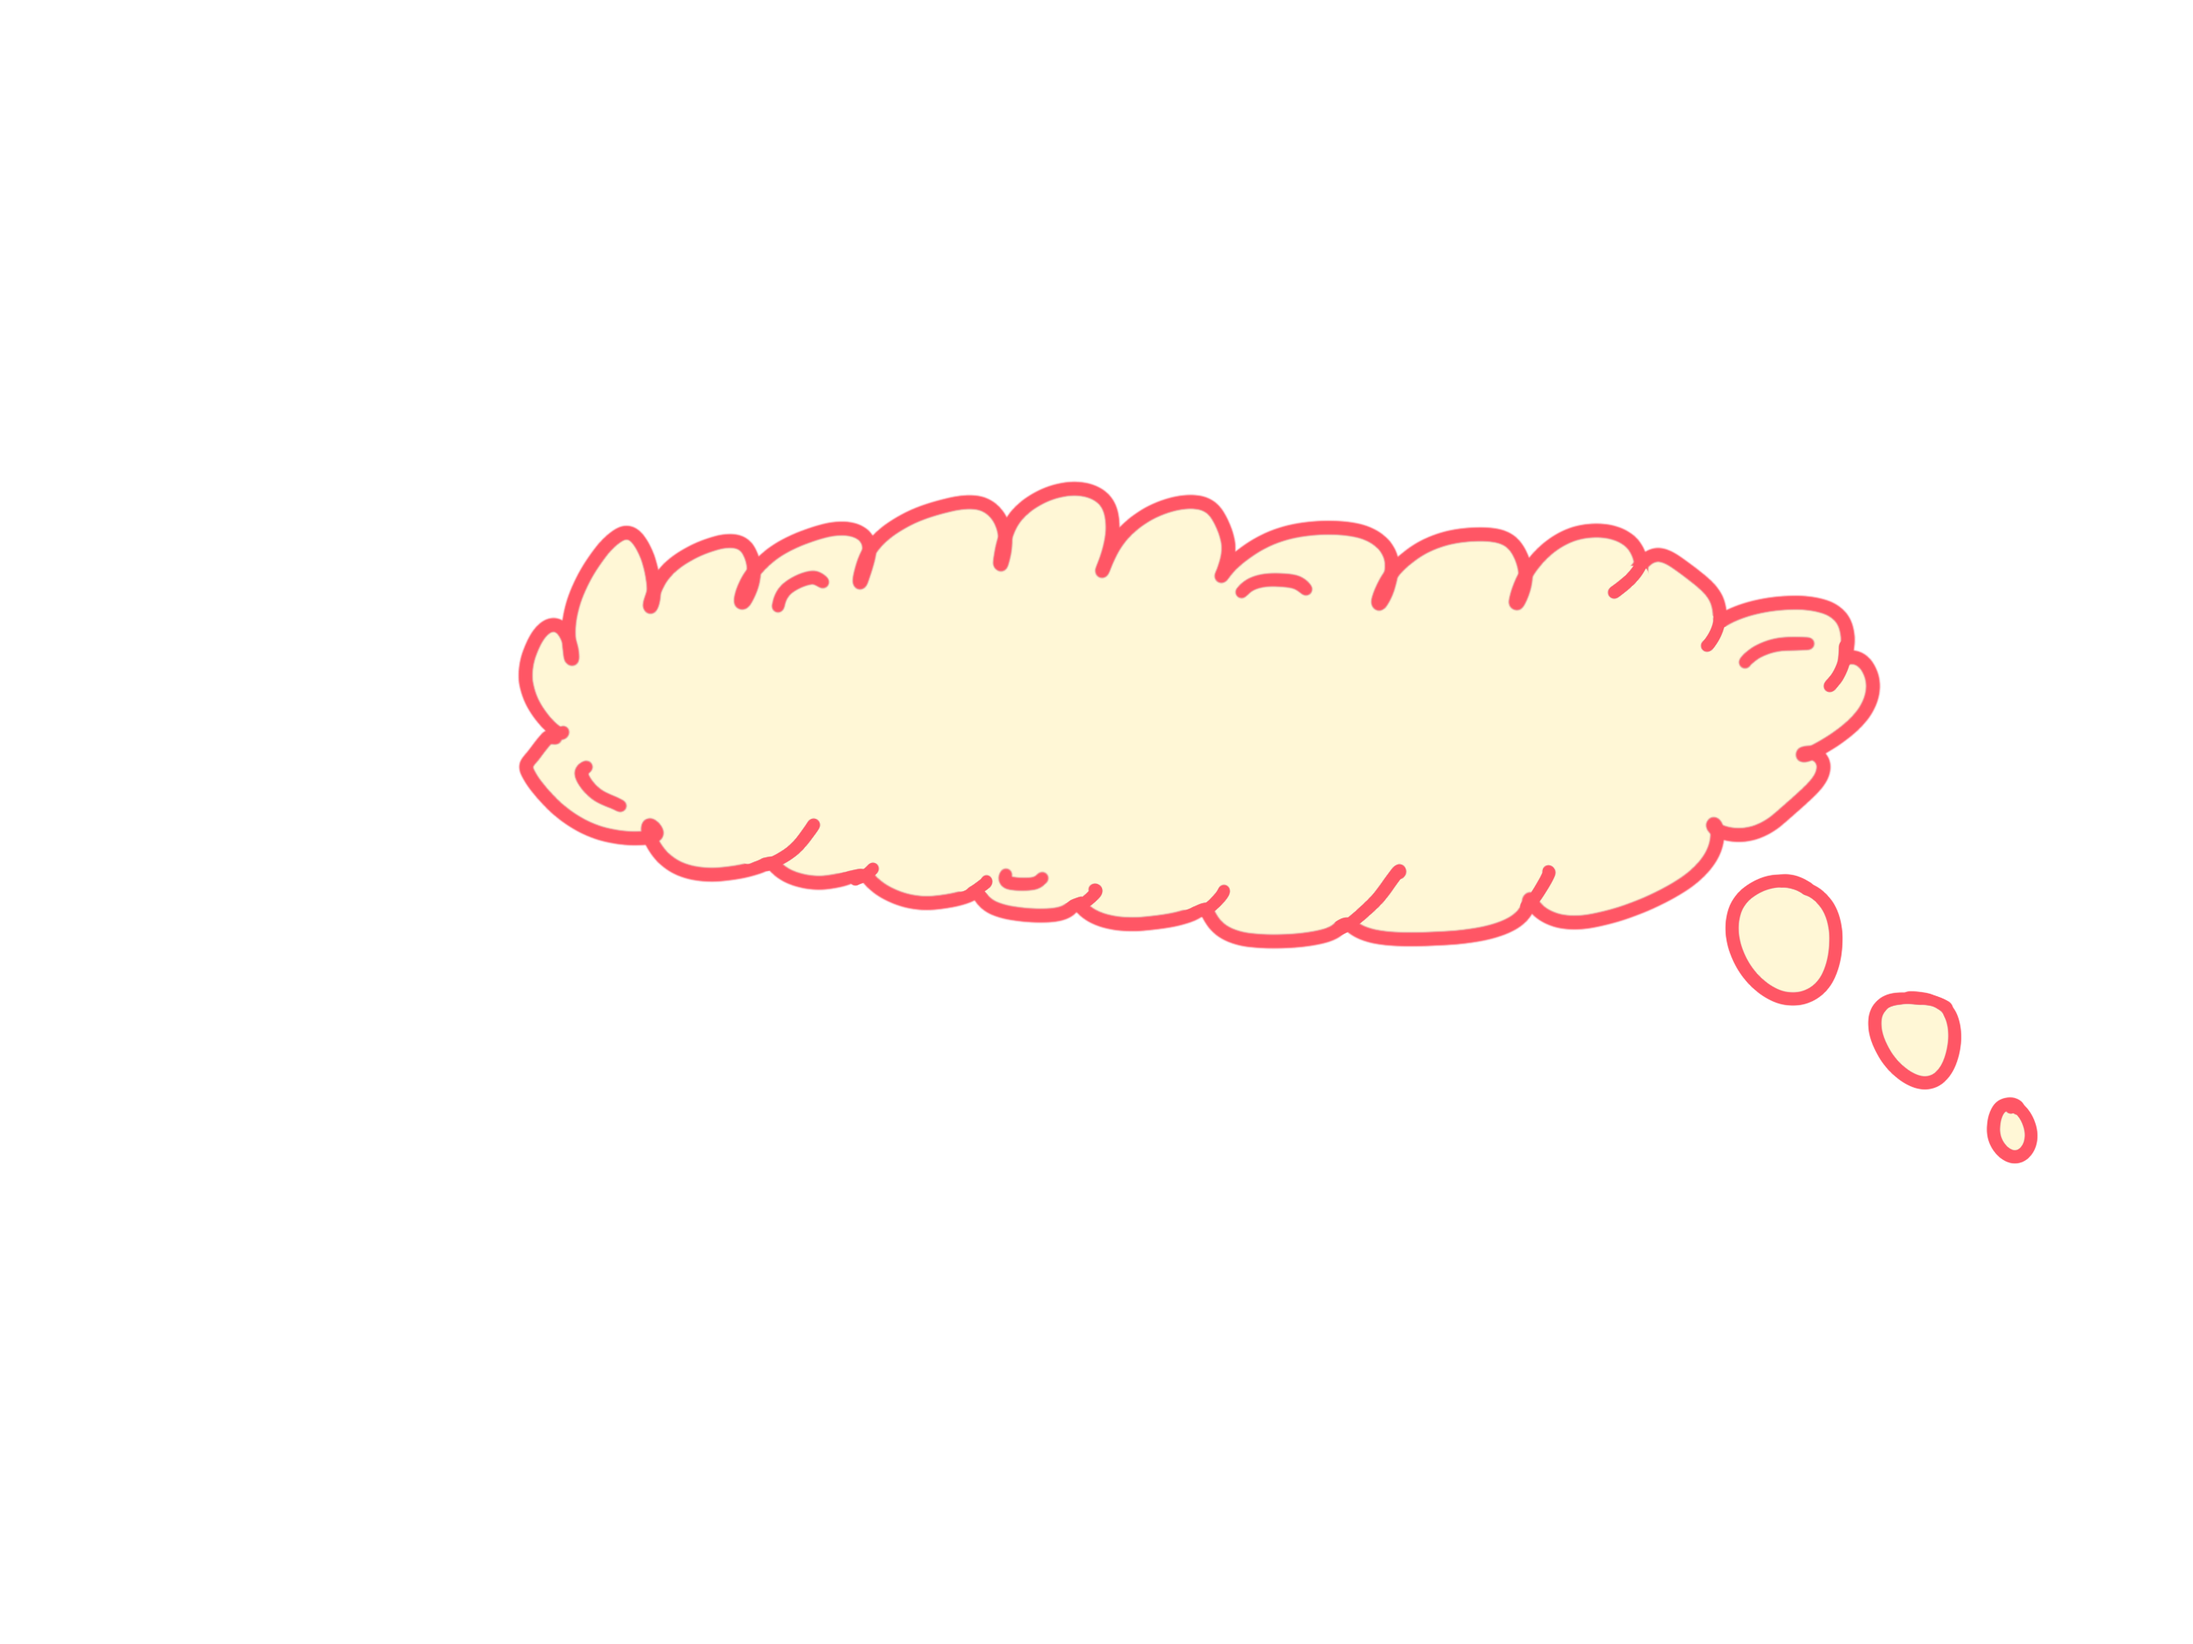
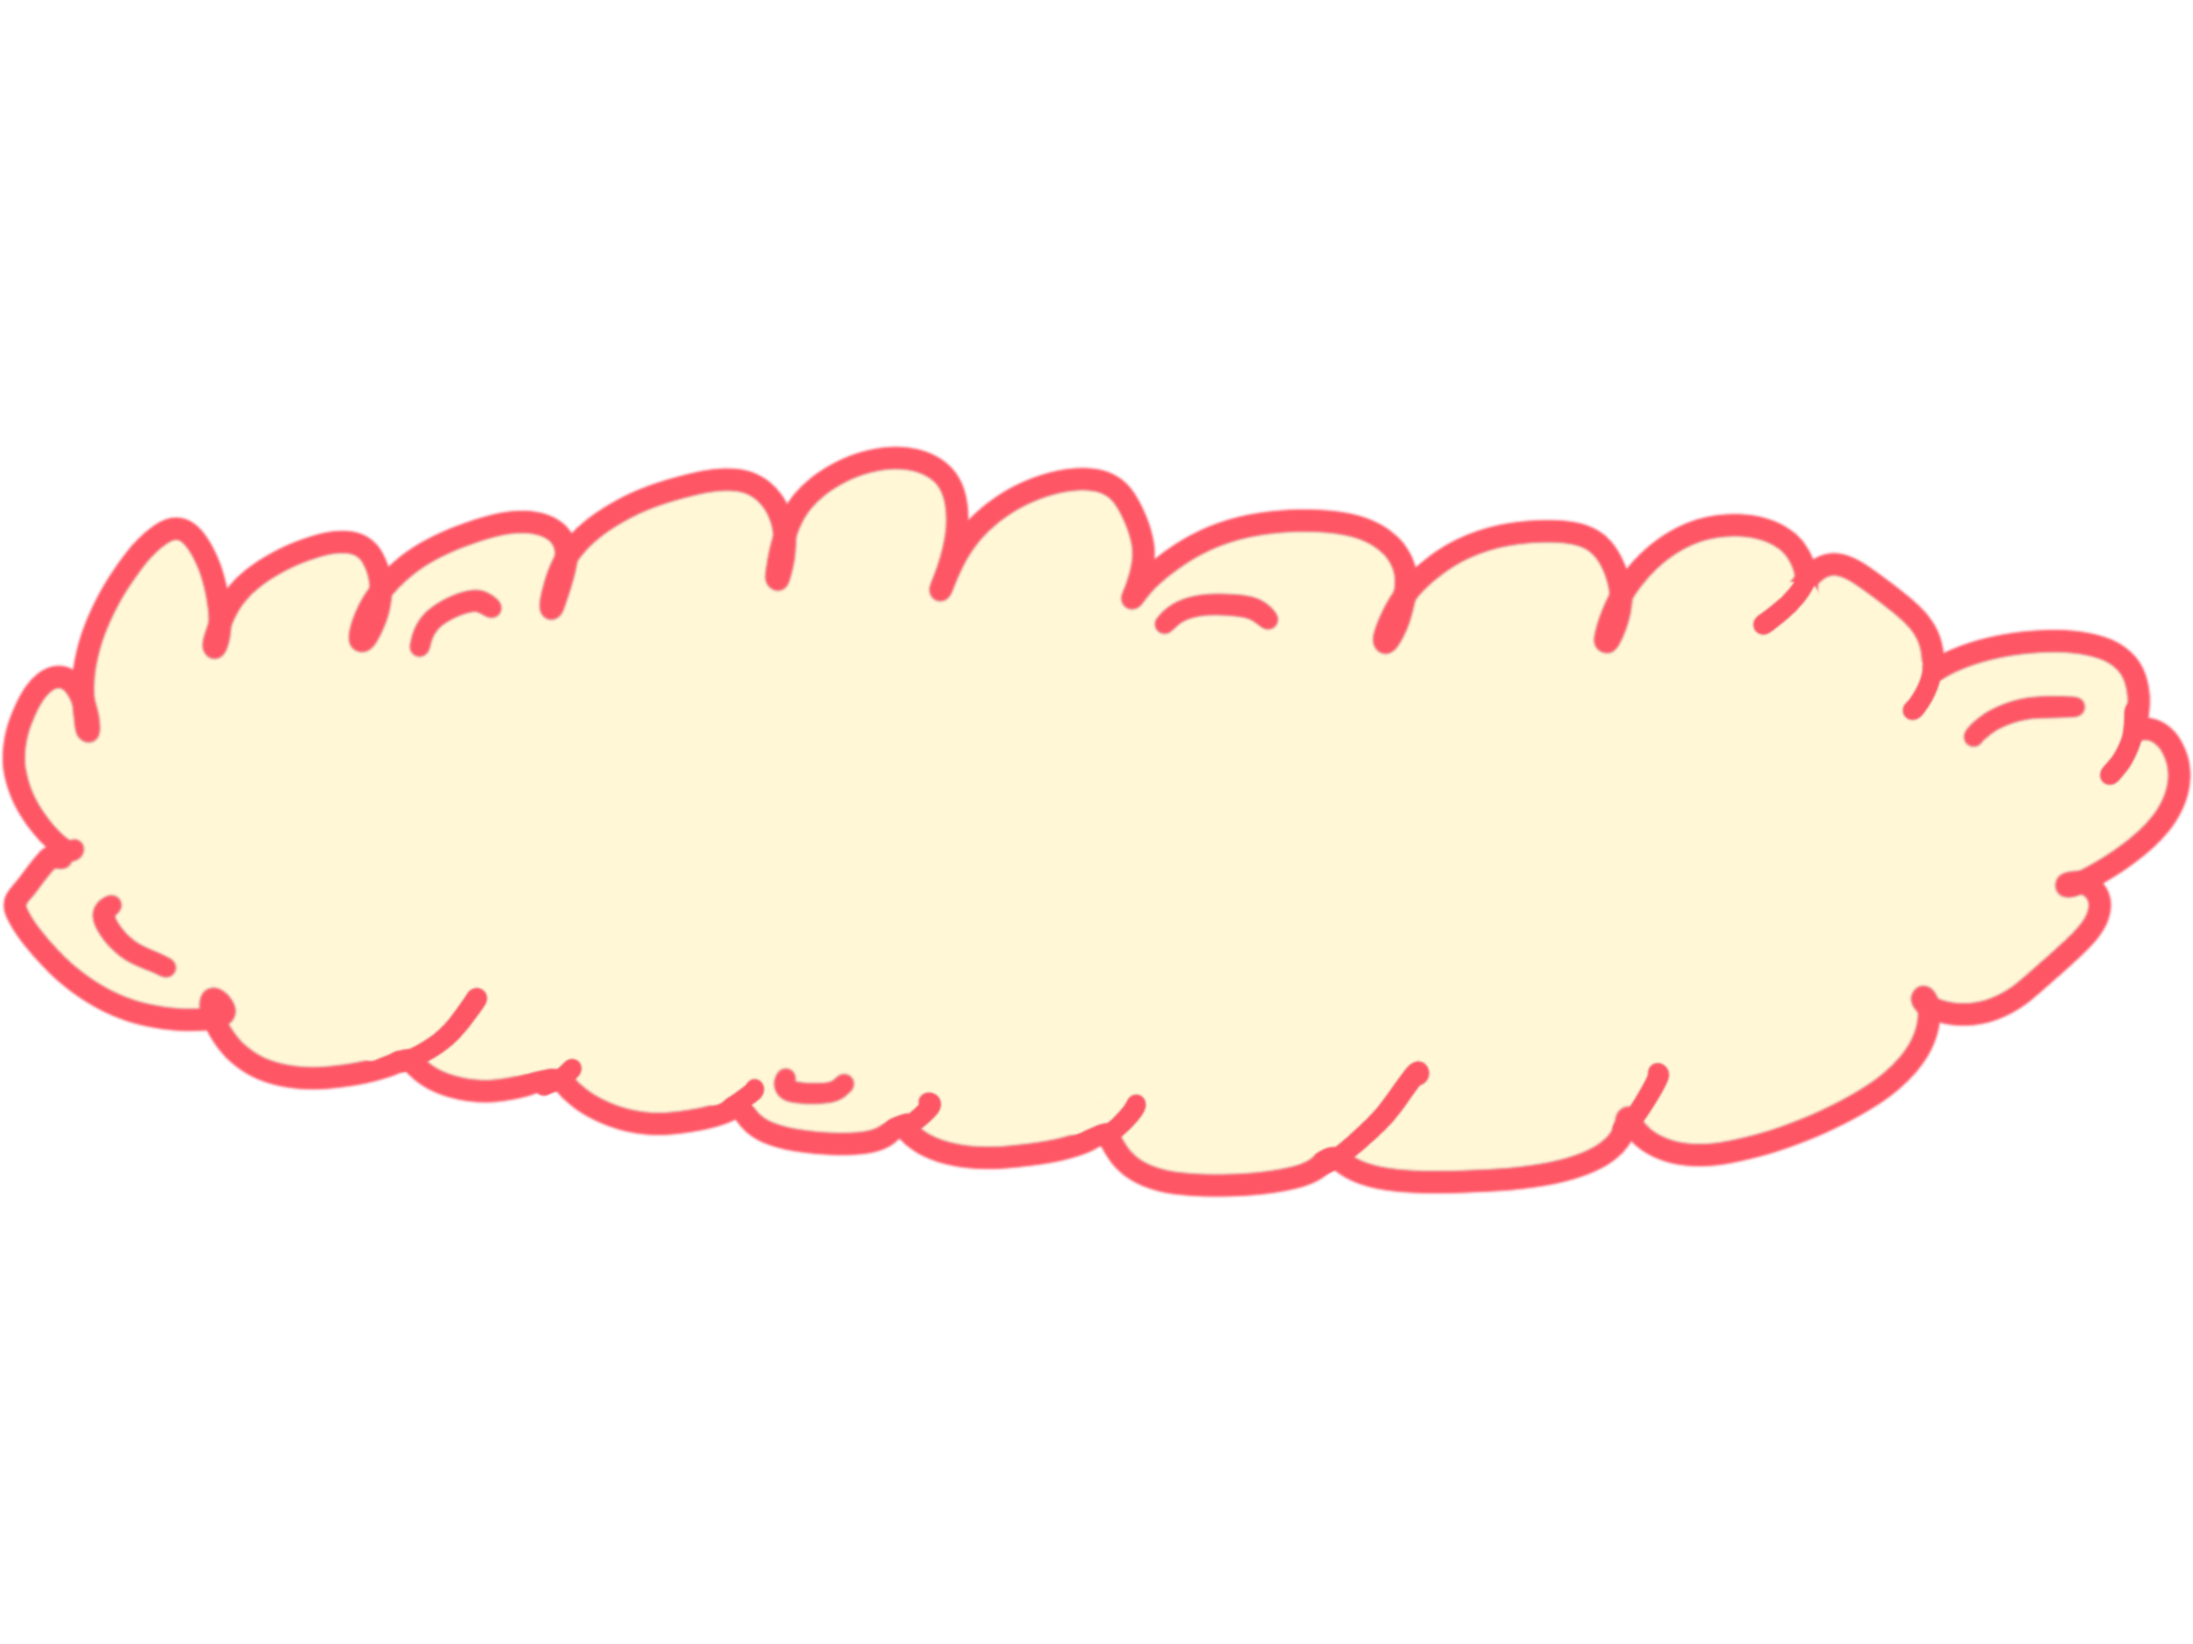
Rearrenge FAQ section and change RSVP button

Changed region(s): [[0.0, 0.25, 1.0, 0.75], [0.9023, 0.6562, 0.9334, 0.7188]]

diff --git a/save-website/style.css b/save-website/style.css
@@ -21,9 +21,17 @@ body{
             ),
             #ebe9dd;
 }
-#rsvp-button{
-    margin: 40px auto;
+#rsvp-button {
+    width: 220px;
+    height: auto;
     display: block;
+    margin: 40px auto;
+    cursor: pointer;
+    transition: transform 0.2s ease;
+}
+#rsvp-button:hover {
+    content: url("../save-assets/rsvp-button-hover.png");
+    transform: scale(1.05);
 }
 h3 {
     font-size: 30px;
@@ -46,19 +54,6 @@ a {
 
 a:hover {
     text-decoration: underline;
-}
-button {
-    font-size: 40px;
-    padding: 10px 40px;
-    border: 5px solid #FF5665;
-    border-radius: 25px;
-    cursor: pointer;
-    margin-top: 30px;
-    background-color: #fff3f4;
-    font-family: 'PlayfairDisplay', sans-serif;
-    transition: all 0.3s ease;
-    box-shadow: 0 8px 15px rgba(0, 0, 0, 0.2);
-    text-decoration: none;
 }
 body {
     position: relative;
@@ -135,12 +130,6 @@ footer {
 }
 #rsvp-link:hover {
     text-decoration: none;
-}
-button:hover {
-    background-color: #FF5665;
-    color: white;
-    transform: translateY(-3px) scale(1.05);
-    box-shadow: 0 8px 15px rgba(255, 71, 87, 0.5);
 }
 #ysys{
     text-align: center;
@@ -259,46 +248,57 @@ mark {
 #faq h3 {
     font-size: 35px;
     text-align: center;
-    margin-bottom: -160px;
 }
-
 .faq-question img,
 .faq-answer img {
-    width: 1000px;
-    max-width: 70vw;
+    width: min(800px, 42vw);
     height: auto;
     display: block;
 }
-
 .faq-item {
     display: flex;
-    flex-direction: column;
-    margin-bottom: -400px;
+    flex-direction: row;
+    justify-content: space-between;
+    align-items: center;
 }
 .faq-question {
     align-self: flex-start;
-    margin-left: 2vw;
-    margin-bottom: -550px;
+    margin-left: 4vw;
+    position: relative;
+}
+.faq-question span {
+    position: absolute;
+    top: 50%;
+    left: 50%;
+    transform: translate(-50%, -50%);
+
+    font-size: clamp(16px, 3.4vw, 40px);
+    font-family: 'PlayfairDisplay', sans-serif;
+    text-align: center;
+    width: 65%;
 }
 .faq-answer {
     align-self: flex-end;
     margin-right: 2vw;
+    position: relative;
+}
+.faq-answer span {
+    position: absolute;
+    top: 50%;
+    left: 50%;
+    transform: translate(-50%, -50%);
+
+    font-size: clamp(8px, 1.7vw, 20px);
+    font-family: 'PlayfairDisplay', sans-serif;
+    text-align: center;
+    width: 65%;
 }
 @media (max-width: 600px) {
-    button {
-        font-size: 30px;
-        padding: 8px 30px;
-        border: 4px solid #FF5665;
-        border-radius: 20px;
-    }
     h3 {
         font-size: 25px;
     }
     p {
         font-size: 20px;
-    }
-    div {
-        padding: 10px 20px 10px 20px;
     }
     #how-it-works {
         margin: 250px auto;
@@ -307,24 +307,23 @@ mark {
         font-size: 30px;
         text-align: center;
     }
-    button {
-        font-size: 40px;
-    }
     .shine-1 {
         width: 65px;
         top: 80px;
-        right: 2%;
+        right: 3%;
+        top: -20px;
     }
 
     .star-1 {
         width: 55px;
         top: 430px;
-        left: 2%;
+        left: 5%;
+        top: 200px;
     }
 
     .heart-1 {
         width: 50px;
-        top: 800px;
+        top: 700px;
         right: 3%;
     }
 

diff --git a/save-website/index.html b/save-website/index.html
@@ -37,8 +37,13 @@
                 to make children's wishes come true!!
             </p>
         </div>
-        <a href="https://rsvp.hackclub.community/save" target="_blank" id="rsvp-link" rel="noopener">
-        <button id="rsvp-button">RSVP</button>
+        <a href="https://rsvp.hackclub.community/save"
+           target="_blank"
+           id="rsvp-link"
+           rel="noopener">
+            <img id="rsvp-button"
+                 src="../save-assets/rsvp-button.png"
+                 alt="RSVP">
         </a>
 
     </header>
@@ -97,10 +102,12 @@
             <div class="faq-item">
                 <div class="faq-question">
                     <img src="../save-assets/question.png" alt="">
+                    <span>What is Save?</span>
                 </div>
 
                 <div class="faq-answer">
                     <img src="../save-assets/answer.png" alt="">
+                    <span>Save is a YSWS (You Ship We Ship) by Hack Club where you can build and ship your projects and each hour you build something, we'll donate in your name to the Make-A-Wish to make children's dreams come true!</span>
                 </div>
             </div>
 
